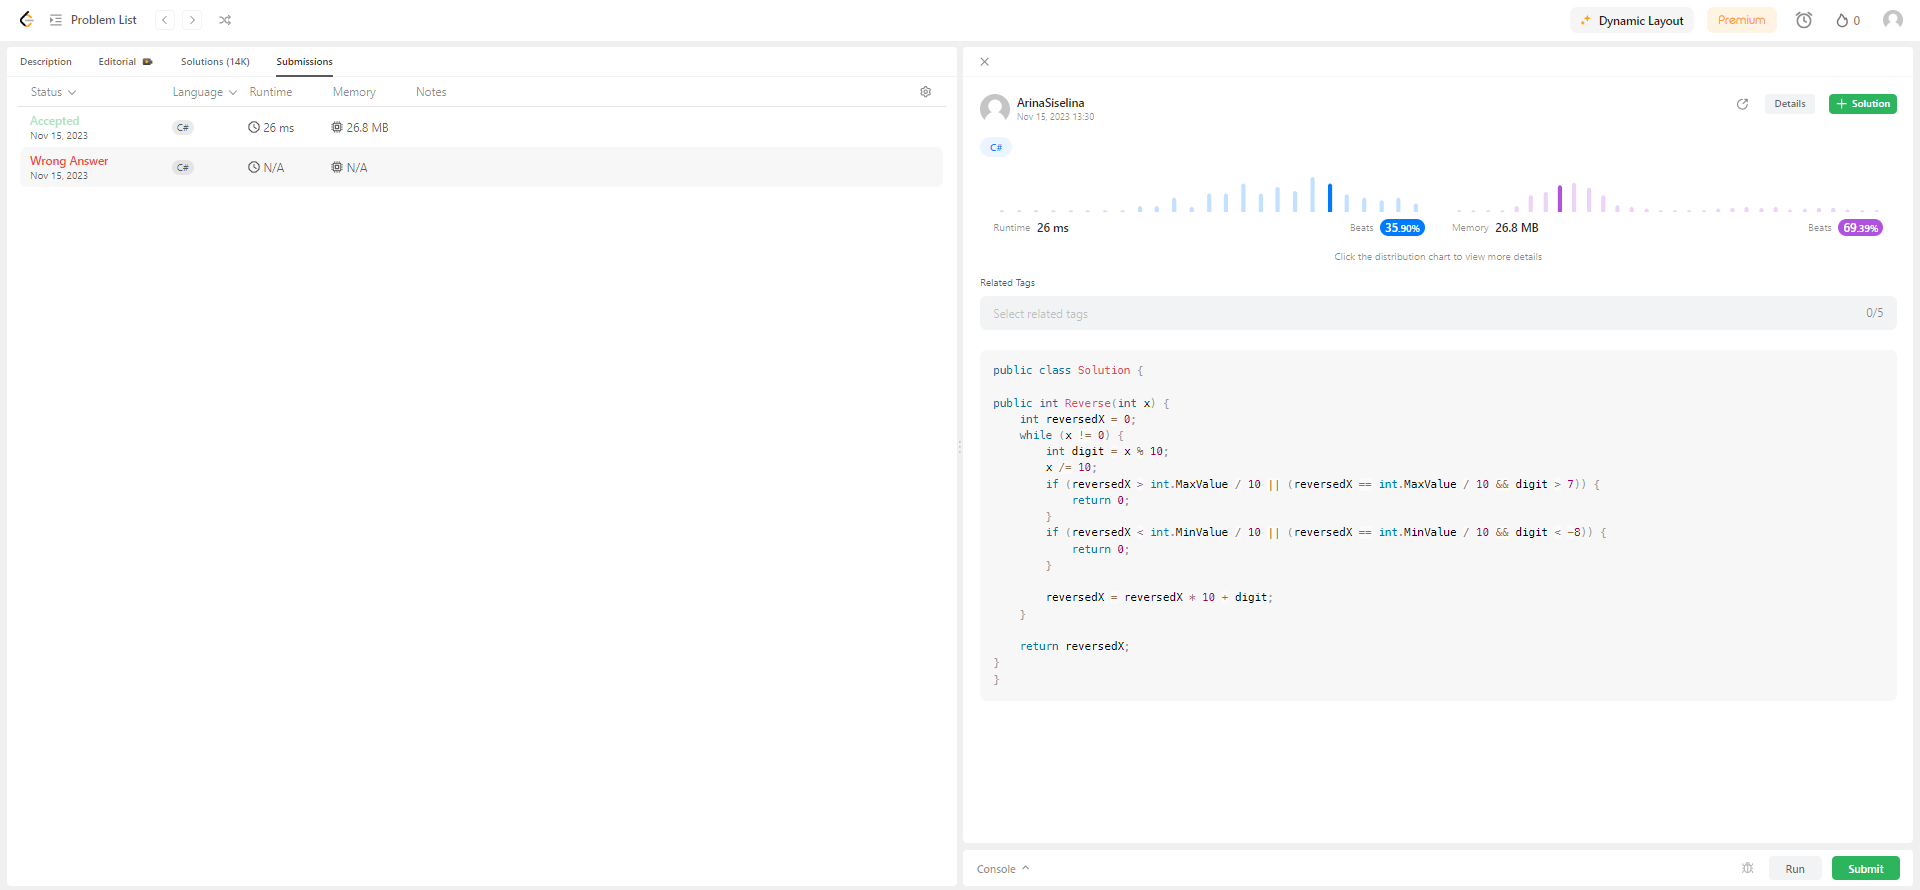
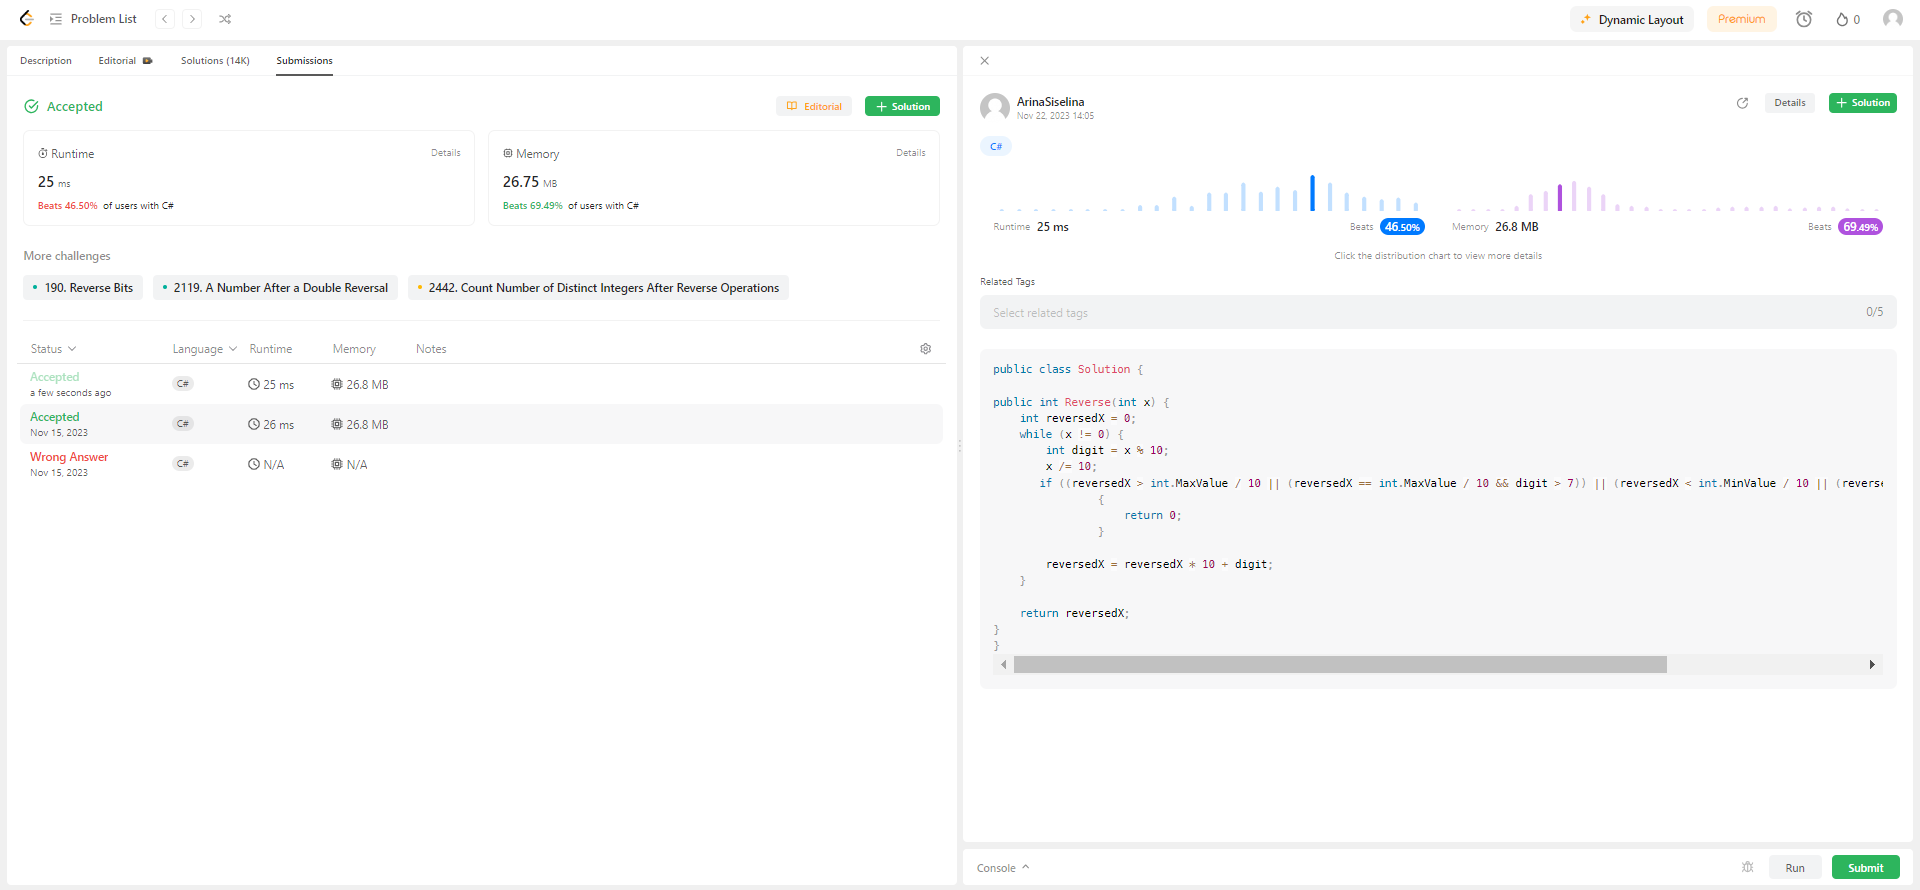
Fix ReverseInteger problem solution

diff --git a/ScnSoft-Education/LeetCodeTraining/ReverseInteger7/ReverseIntegerSolution.cs b/ScnSoft-Education/LeetCodeTraining/ReverseInteger7/ReverseIntegerSolution.cs
@@ -1,6 +1,6 @@
 namespace LeetCodeTraining.ReverseInteger
 {
-    //https://leetcode.com/problems/reverse-integer/description/
+    // https://leetcode.com/problems/reverse-integer/description/
     public class ReverseIntegerSolution
     {
         public static int Reverse(int x)
@@ -10,11 +10,7 @@
             {
                 int digit = x % 10;
                 x /= 10;
-                if (reversedX > int.MaxValue / 10 || (reversedX == int.MaxValue / 10 && digit > 7))
-                {
-                    return 0;
-                }
-                if (reversedX < int.MinValue / 10 || (reversedX == int.MinValue / 10 && digit < -8))
+                if ((reversedX > int.MaxValue / 10 || (reversedX == int.MaxValue / 10 && digit > 7)) || (reversedX < int.MinValue / 10 || (reversedX == int.MinValue / 10 && digit < -8)))
                 {
                     return 0;
                 }
